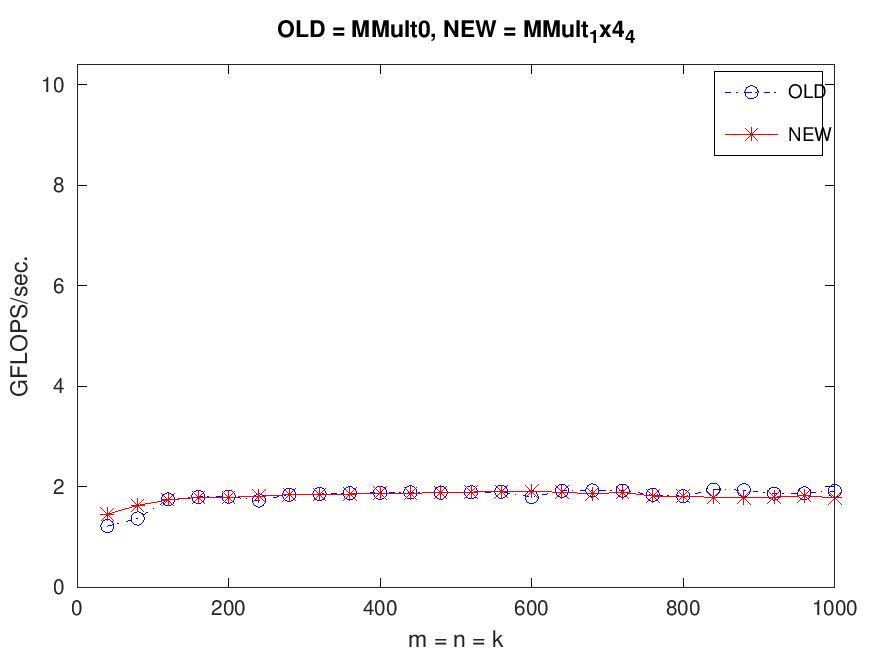
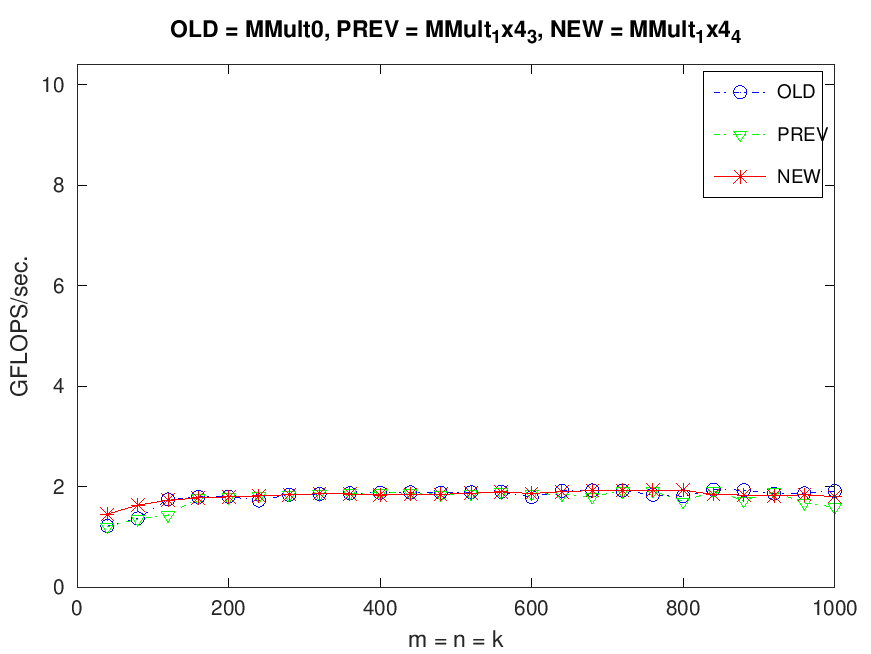
update: support $(PREV)

diff --git a/src/HowToOptimizeGemm/output_new.m b/src/HowToOptimizeGemm/output_new.m
@@ -1,28 +1,28 @@
-version = 'MMult_1x4_3';
+version = 'MMult_1x4_4';
 MY_MMult = [
-40 1.207547e+00 0.000000e+00 
-80 1.356291e+00 0.000000e+00 
-120 1.434025e+00 0.000000e+00 
-160 1.782032e+00 0.000000e+00 
-200 1.798763e+00 0.000000e+00 
-240 1.814888e+00 0.000000e+00 
-280 1.842074e+00 0.000000e+00 
-320 1.861342e+00 0.000000e+00 
-360 1.872720e+00 0.000000e+00 
-400 1.881274e+00 0.000000e+00 
-440 1.872279e+00 0.000000e+00 
-480 1.850850e+00 0.000000e+00 
-520 1.865768e+00 0.000000e+00 
-560 1.895539e+00 0.000000e+00 
-600 1.865357e+00 0.000000e+00 
-640 1.847607e+00 0.000000e+00 
-680 1.799752e+00 0.000000e+00 
-720 1.921428e+00 0.000000e+00 
-760 1.921486e+00 0.000000e+00 
-800 1.706627e+00 0.000000e+00 
-840 1.920454e+00 0.000000e+00 
-880 1.728918e+00 0.000000e+00 
-920 1.899603e+00 0.000000e+00 
-960 1.679150e+00 0.000000e+00 
-1000 1.594144e+00 0.000000e+00 
+40 1.454545e+00 0.000000e+00 
+80 1.635783e+00 0.000000e+00 
+120 1.733200e+00 0.000000e+00 
+160 1.777007e+00 0.000000e+00 
+200 1.799370e+00 0.000000e+00 
+240 1.817512e+00 0.000000e+00 
+280 1.845016e+00 0.000000e+00 
+320 1.860444e+00 0.000000e+00 
+360 1.856807e+00 0.000000e+00 
+400 1.834941e+00 0.000000e+00 
+440 1.847929e+00 0.000000e+00 
+480 1.851392e+00 0.000000e+00 
+520 1.870322e+00 0.000000e+00 
+560 1.897854e+00 0.000000e+00 
+600 1.867696e+00 0.000000e+00 
+640 1.902310e+00 0.000000e+00 
+680 1.924420e+00 0.000000e+00 
+720 1.929294e+00 0.000000e+00 
+760 1.932045e+00 0.000000e+00 
+800 1.933977e+00 0.000000e+00 
+840 1.848515e+00 0.000000e+00 
+880 1.833454e+00 0.000000e+00 
+920 1.816267e+00 0.000000e+00 
+960 1.842423e+00 0.000000e+00 
+1000 1.803044e+00 0.000000e+00 
 ];

diff --git a/src/HowToOptimizeGemm/output_MMult_1x4_4.m b/src/HowToOptimizeGemm/output_MMult_1x4_4.m
@@ -1,28 +1,28 @@
 version = 'MMult_1x4_4';
 MY_MMult = [
-40 1.471264e+00 0.000000e+00 
-80 1.627981e+00 0.000000e+00 
-120 1.741058e+00 0.000000e+00 
-160 1.778936e+00 0.000000e+00 
-200 1.787110e+00 0.000000e+00 
-240 1.799649e+00 0.000000e+00 
-280 1.820761e+00 0.000000e+00 
-320 1.824905e+00 0.000000e+00 
-360 1.832846e+00 0.000000e+00 
-400 1.837998e+00 0.000000e+00 
-440 1.845507e+00 0.000000e+00 
-480 1.852369e+00 0.000000e+00 
-520 1.854449e+00 0.000000e+00 
-560 1.854651e+00 0.000000e+00 
-600 1.830353e+00 0.000000e+00 
-640 1.831587e+00 0.000000e+00 
-680 1.732026e+00 0.000000e+00 
-720 1.824019e+00 0.000000e+00 
-760 1.796439e+00 0.000000e+00 
-800 1.686418e+00 0.000000e+00 
-840 1.729114e+00 0.000000e+00 
-880 1.719072e+00 0.000000e+00 
-920 1.708678e+00 0.000000e+00 
-960 1.744140e+00 0.000000e+00 
-1000 1.445516e+00 0.000000e+00 
+40 1.454545e+00 0.000000e+00 
+80 1.635783e+00 0.000000e+00 
+120 1.733200e+00 0.000000e+00 
+160 1.777007e+00 0.000000e+00 
+200 1.799370e+00 0.000000e+00 
+240 1.817512e+00 0.000000e+00 
+280 1.845016e+00 0.000000e+00 
+320 1.860444e+00 0.000000e+00 
+360 1.856807e+00 0.000000e+00 
+400 1.834941e+00 0.000000e+00 
+440 1.847929e+00 0.000000e+00 
+480 1.851392e+00 0.000000e+00 
+520 1.870322e+00 0.000000e+00 
+560 1.897854e+00 0.000000e+00 
+600 1.867696e+00 0.000000e+00 
+640 1.902310e+00 0.000000e+00 
+680 1.924420e+00 0.000000e+00 
+720 1.929294e+00 0.000000e+00 
+760 1.932045e+00 0.000000e+00 
+800 1.933977e+00 0.000000e+00 
+840 1.848515e+00 0.000000e+00 
+880 1.833454e+00 0.000000e+00 
+920 1.816267e+00 0.000000e+00 
+960 1.842423e+00 0.000000e+00 
+1000 1.803044e+00 0.000000e+00 
 ];

diff --git a/src/HowToOptimizeGemm/output_prev.m b/src/HowToOptimizeGemm/output_prev.m
@@ -1,28 +1,28 @@
-version = 'MMult2';
+version = 'MMult_1x4_3';
 MY_MMult = [
 40 1.207547e+00 0.000000e+00 
 80 1.356291e+00 0.000000e+00 
-120 1.718548e+00 0.000000e+00 
-160 1.811988e+00 0.000000e+00 
-200 1.780944e+00 0.000000e+00 
-240 1.802112e+00 0.000000e+00 
-280 1.821592e+00 0.000000e+00 
-320 1.824245e+00 0.000000e+00 
-360 1.827211e+00 0.000000e+00 
-400 1.801269e+00 0.000000e+00 
-440 1.817802e+00 0.000000e+00 
-480 1.849303e+00 0.000000e+00 
-520 1.851628e+00 0.000000e+00 
-560 1.800322e+00 0.000000e+00 
-600 1.837110e+00 0.000000e+00 
-640 1.895001e+00 0.000000e+00 
-680 1.768966e+00 0.000000e+00 
-720 1.814892e+00 0.000000e+00 
-760 1.777450e+00 0.000000e+00 
-800 1.773756e+00 0.000000e+00 
-840 1.739658e+00 0.000000e+00 
-880 1.738606e+00 0.000000e+00 
-920 1.781059e+00 0.000000e+00 
-960 1.510208e+00 0.000000e+00 
-1000 1.487907e+00 0.000000e+00 
+120 1.434025e+00 0.000000e+00 
+160 1.782032e+00 0.000000e+00 
+200 1.798763e+00 0.000000e+00 
+240 1.814888e+00 0.000000e+00 
+280 1.842074e+00 0.000000e+00 
+320 1.861342e+00 0.000000e+00 
+360 1.872720e+00 0.000000e+00 
+400 1.881274e+00 0.000000e+00 
+440 1.872279e+00 0.000000e+00 
+480 1.850850e+00 0.000000e+00 
+520 1.865768e+00 0.000000e+00 
+560 1.895539e+00 0.000000e+00 
+600 1.865357e+00 0.000000e+00 
+640 1.847607e+00 0.000000e+00 
+680 1.799752e+00 0.000000e+00 
+720 1.921428e+00 0.000000e+00 
+760 1.921486e+00 0.000000e+00 
+800 1.706627e+00 0.000000e+00 
+840 1.920454e+00 0.000000e+00 
+880 1.728918e+00 0.000000e+00 
+920 1.899603e+00 0.000000e+00 
+960 1.679150e+00 0.000000e+00 
+1000 1.594144e+00 0.000000e+00 
 ];
